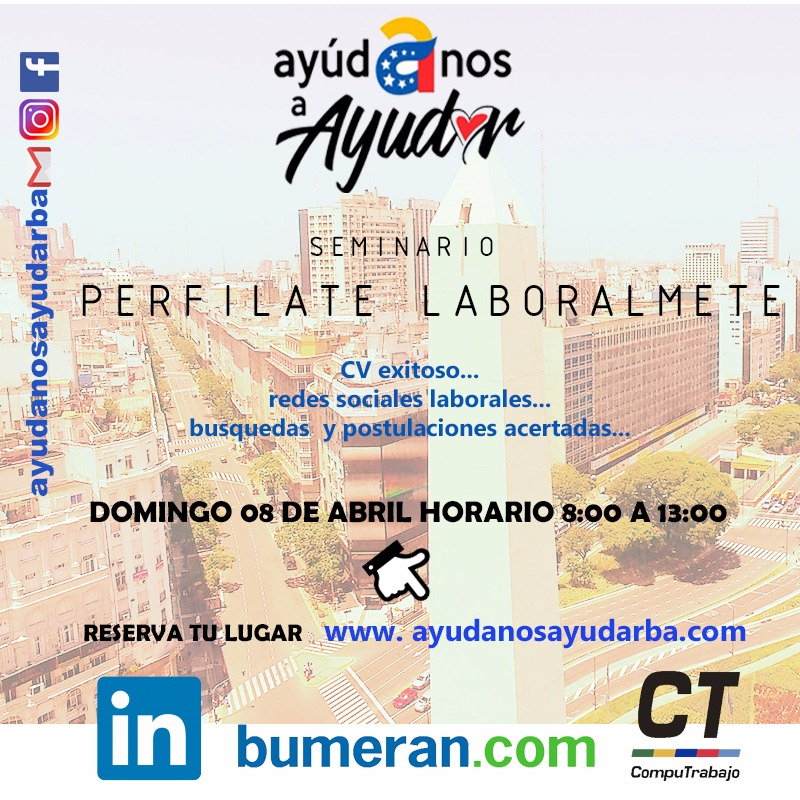
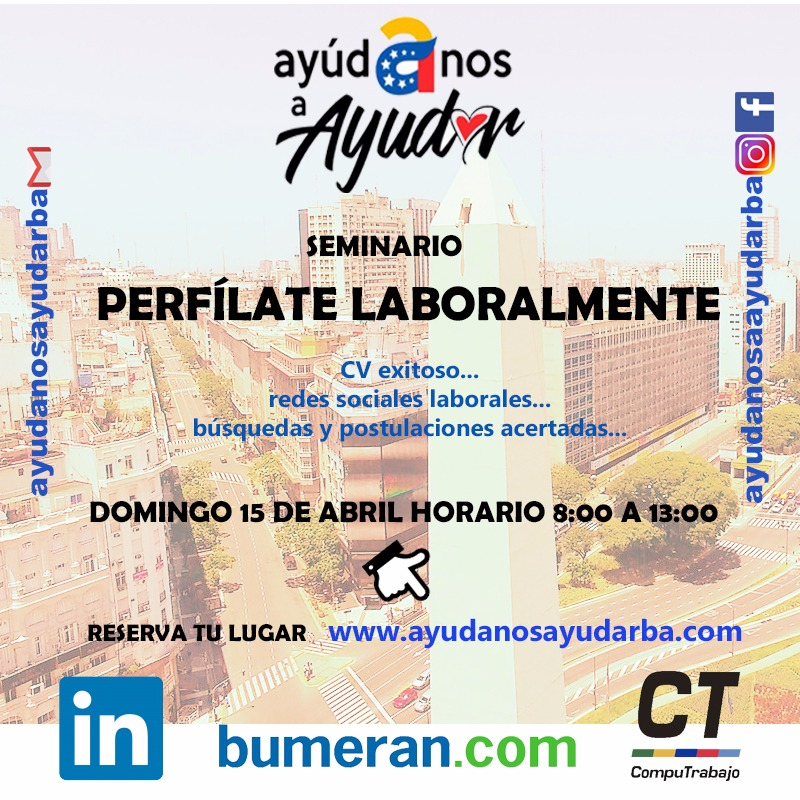
Ultimos ajustes para el evento

diff --git a/eventos.php b/eventos.php
@@ -24,12 +24,14 @@
             <hr class="section-heading-spacer">
             <div class="clearfix"></div>
             <h2 class="section-heading">Seminario Perfílate Laboralmente</h2>
-    <div class="row" style="margin-top: 30px;">
-              <p class="lead">Con mucho agrado este domingo 8 de Abril de 8:00 a 13:00, te invitamos a nuestro seminario donde se trataran temas importantes para un perfil laboral exitoso.</p>
-              <p class="lead">Si estás interesado en asistir regístrate <a href="registro.php">aquí</a> y nos pondremos en contacto contigo.</p>
+            <div class="row" style="margin-top: 30px;">
+              <div class="col-lg-12 col-sm-12">
+                <p class="lead">Con mucho agrado este domingo 15 de Abril de 8:00 a 13:00, te invitamos a nuestro seminario donde se trataran temas importantes para un perfil laboral exitoso.</p>
+                <p class="lead">Si estás interesado en asistir regístrate <a href="registro.php">aquí</a> y nos pondremos en contacto contigo.</p>
+              </div>
             </div>
             <div class="text-center">
-              <img src="img/Seminario_3.jpg" class="rounded mx-auto d-block img-responsive" alt="Flyer">
+              <img src="img/flyer.jpg" class="rounded mx-auto d-block img-responsive center-block" alt="Flyer">
             </div>
         
           </div>

diff --git a/contacto.php b/contacto.php
@@ -25,15 +25,15 @@
                 <div class="col-lg-12 col-sm-12">
                     <hr class="section-heading-spacer">
                     <div class="clearfix"></div>
-                    <h2 class="section-heading">Te puedes comunicar con:</h2>
+                    <h2 class="section-heading">Participamos en el proyecto:</h2>
                     <ul>
-                        <li><p class="lead">Laurys: +54 9 11 3255-6087</p></li>
-                        <li><p class="lead">Zaraid: +54 9 11 7000-7451</p></li>
-                        <li><p class="lead">Daniel: +54 9 11 2388-2368</p></li>
-                        <li><p class="lead">Adolfo: +54 9 11 5814-1953</p></li>
-                        <li><p class="lead">Milagros: +54 9 11 2771-8925</p></li>
+                        <li><p class="lead">Laurys</p></li>
+                        <li><p class="lead">Zaraid</p></li>
+                        <li><p class="lead">Daniel</p></li>
+                        <li><p class="lead">Adolfo</p></li>
+                        <li><p class="lead">Milagros</p></li>
                     </ul>
-                    
+                    <h3 class="section-heading">Para comunicarte con nosotros lo puedes hacer por el correo: ayudanosayudarba@gmail.com</h3>
                 </div>
             </div>
 

diff --git a/includes/header.php b/includes/header.php
@@ -6,8 +6,17 @@
     <meta charset="utf-8">
     <meta http-equiv="X-UA-Compatible" content="IE=edge">
     <meta name="viewport" content="width=device-width, initial-scale=1">
-    <meta name="description" content="">
-    <meta name="author" content="">
+    
+    <!--  Essential META Tags -->
+    <meta name="description" content="Apoyo a los venezolanos en Argentina">
+    <meta property="og:title" content="Ayúdanos a ayudar">
+    <meta property="og:url" content="http://www.ayudanosayudarba.com/">
+    <meta property="og:description" content="Proyecto solidario y sin fines de lucro de venezolanos en Argentina para brindar apoyo a los compatriotas en condición de riesgo que vienen huyendo de la crisis humanitaria en Venezuela">
+    <meta property="og:image" content="img/AaA.png">
+    <meta property="og:type" content="article">
+    <meta name="google" content="nositelinkssearchbox">
+    <meta name="robots" content="index,follow">
+
 
     <title>Ayúdanos a ayudar</title>
 

diff --git a/README.md b/README.md
@@ -1,5 +1,6 @@
-# ayudando
-Proyecto solidario
+# Ayúdanos a Ayudar
+
+Proyecto sin fines de lucro
 
 Crear el config.php.ini en models/config con los parámetros:
 
